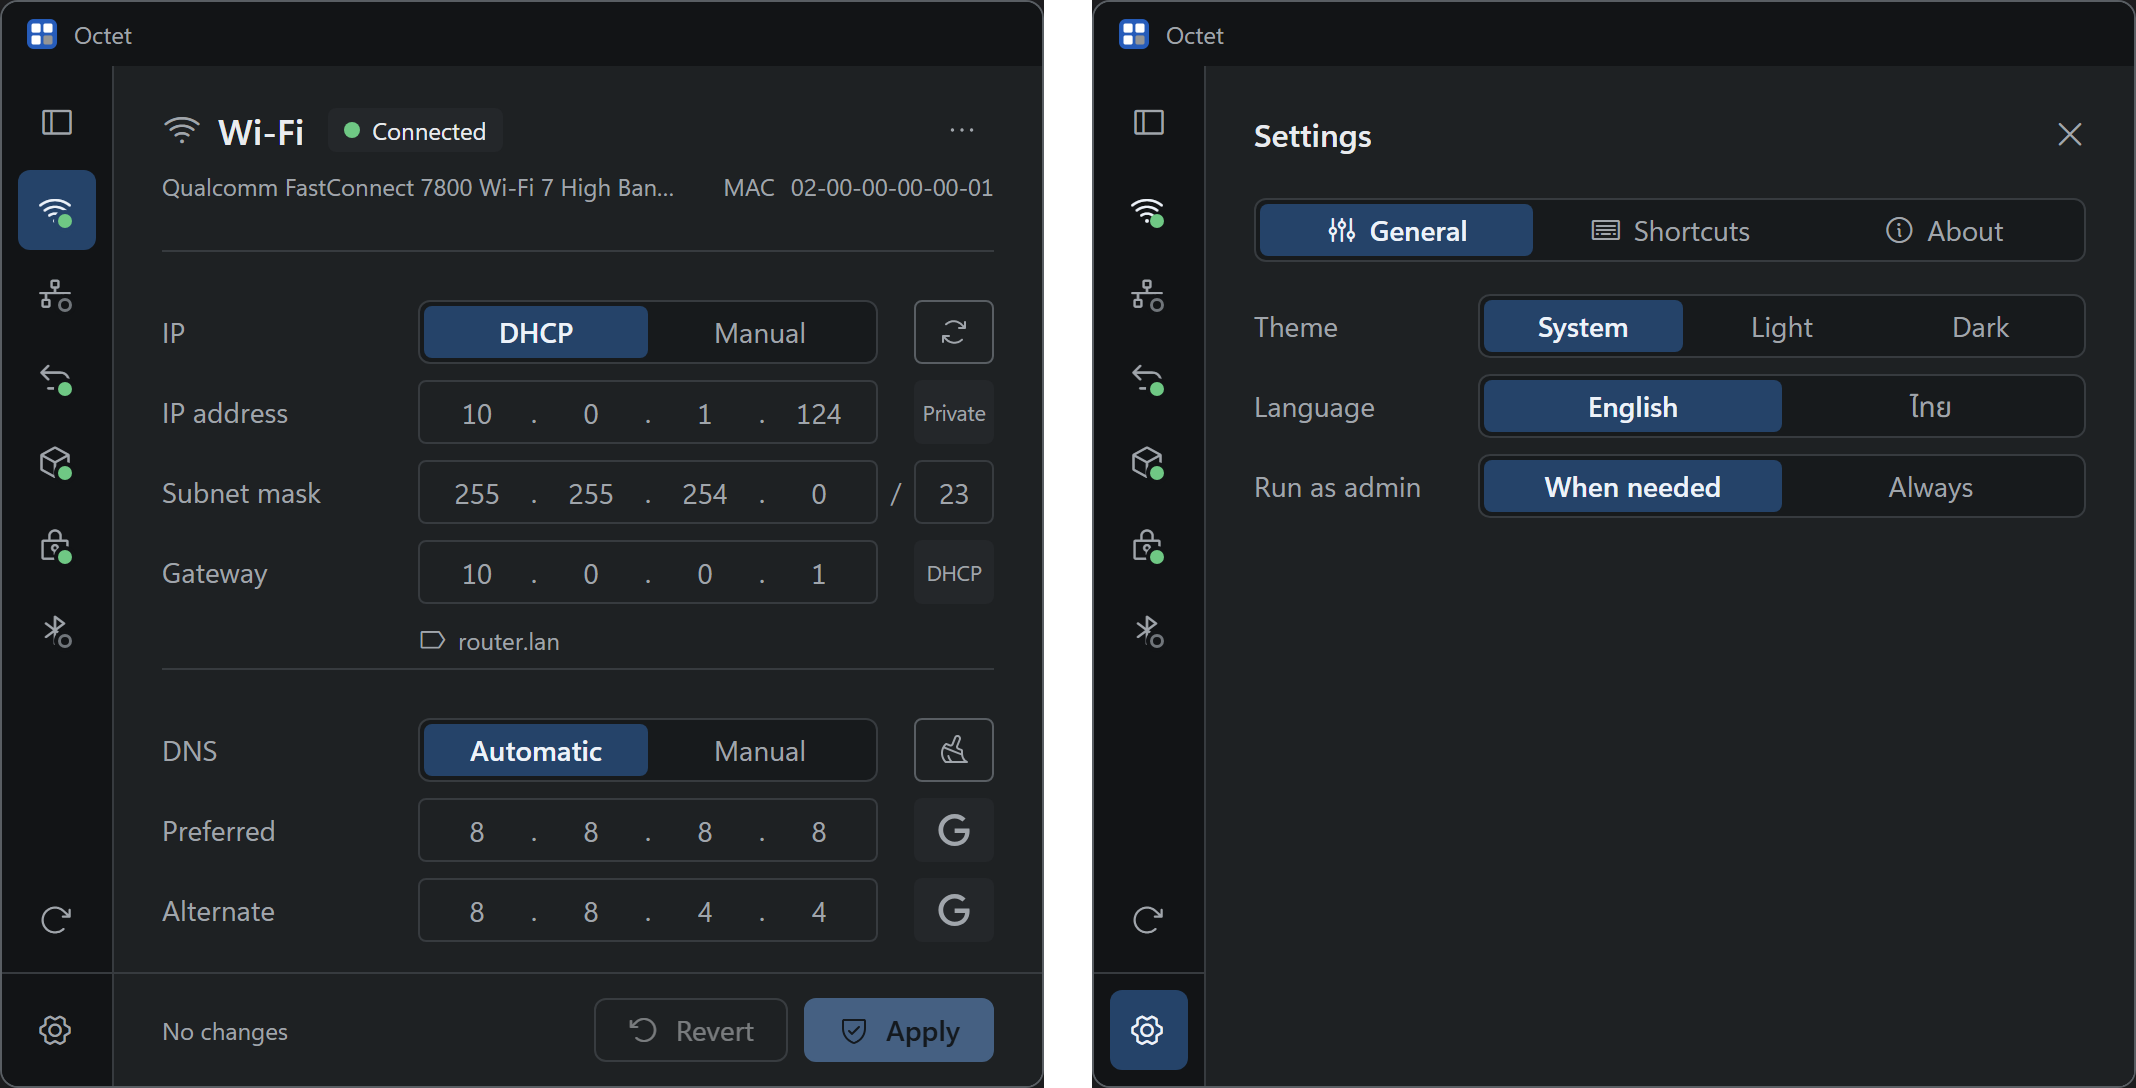
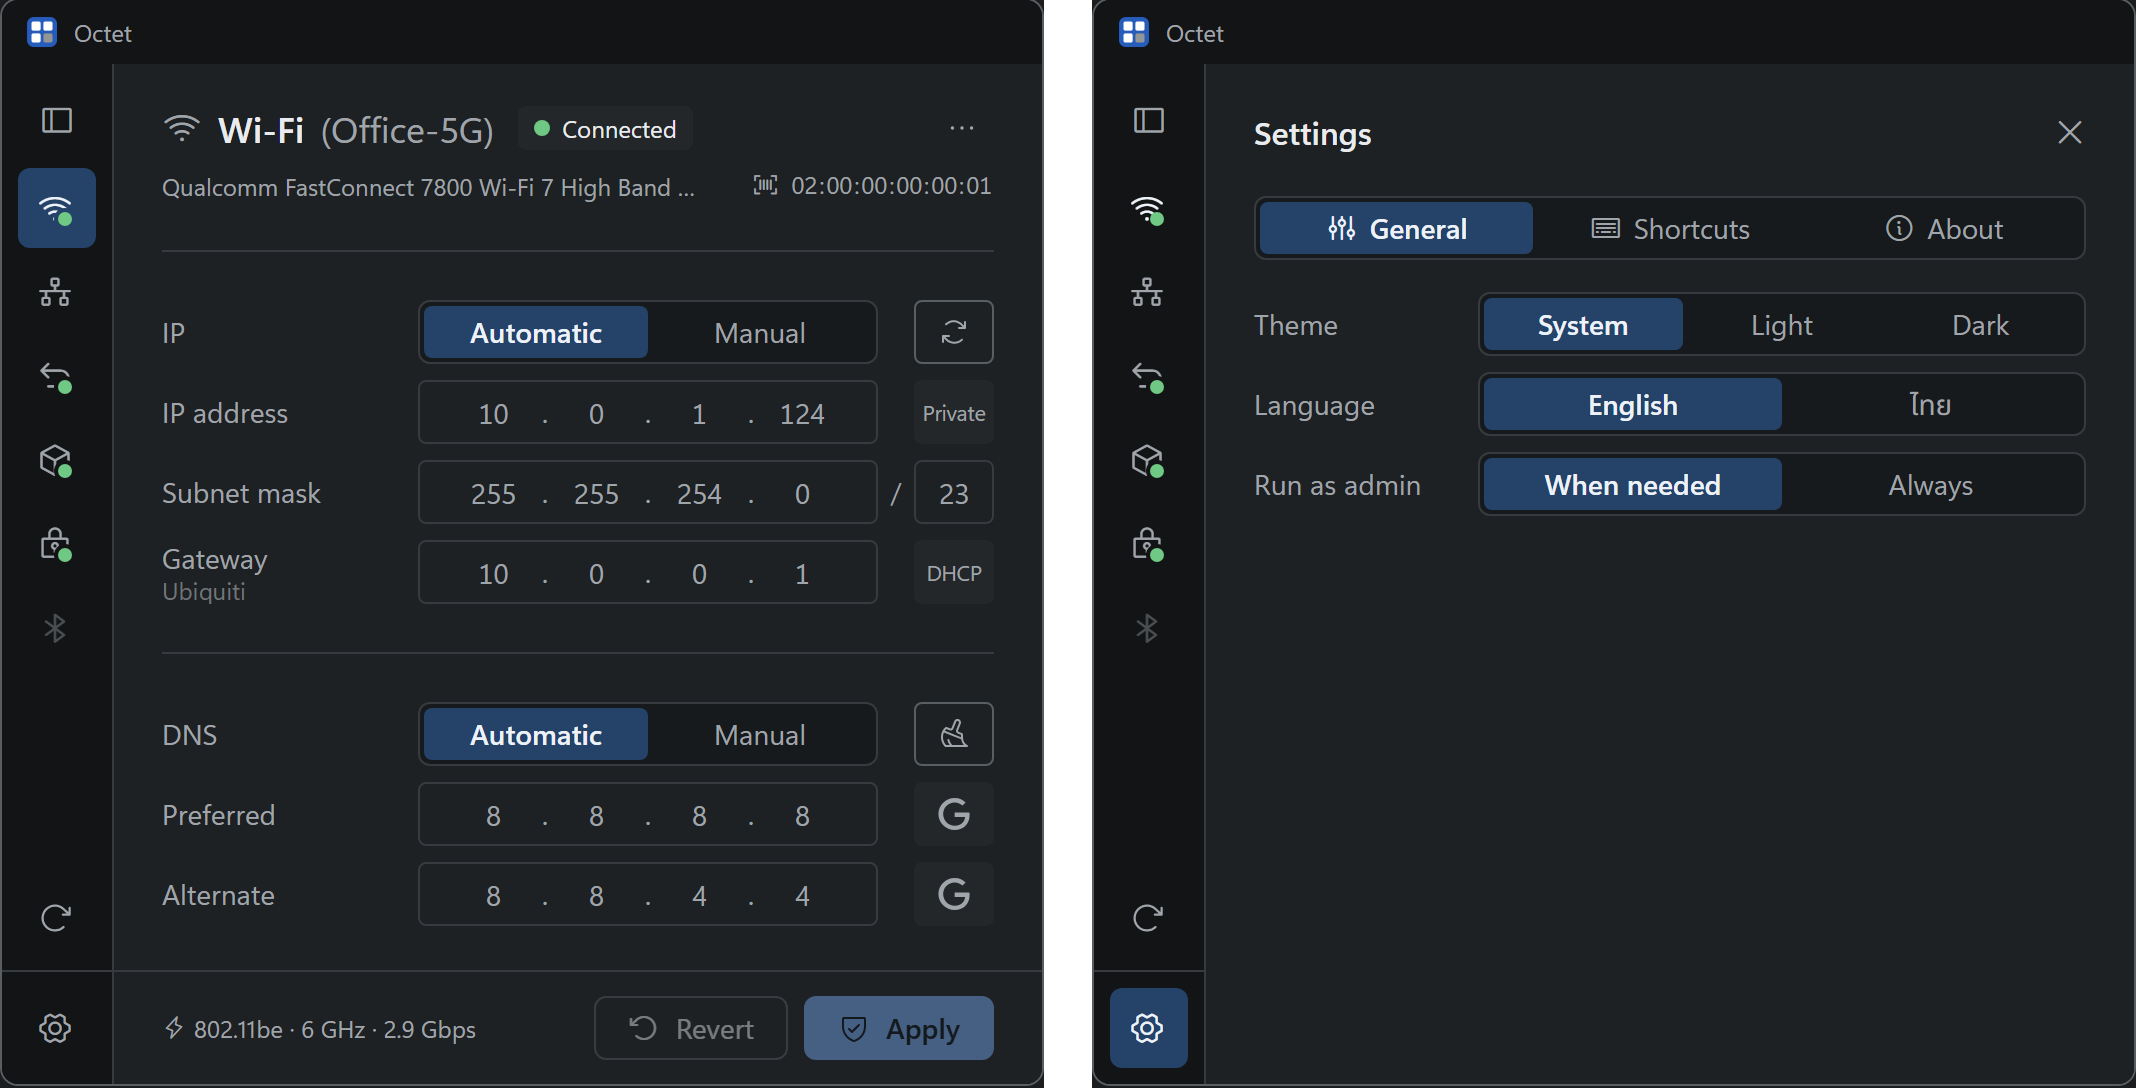
README: fresh screenshot (SSID, MAC pairs, gateway maker, link line)

diff --git a/README.md b/README.md
@@ -4,7 +4,7 @@ Switch IPv4 and DNS settings on Windows in seconds. A fast, modern take on [Simp
 
 > **Status: 0.1, first test build.** Try it on an adapter you can afford to lose first.
 
-<p align="center"><img src="assets/screenshots.png" alt="Octet: a Wi-Fi adapter on DHCP with its gateway named router.lan, and the Settings page"></p>
+<p align="center"><img src="assets/screenshots.png" alt="Octet: a Wi-Fi adapter on Office-5G with its gateway maker and link speed, and the Settings page"></p>
 
 ## Download
 
